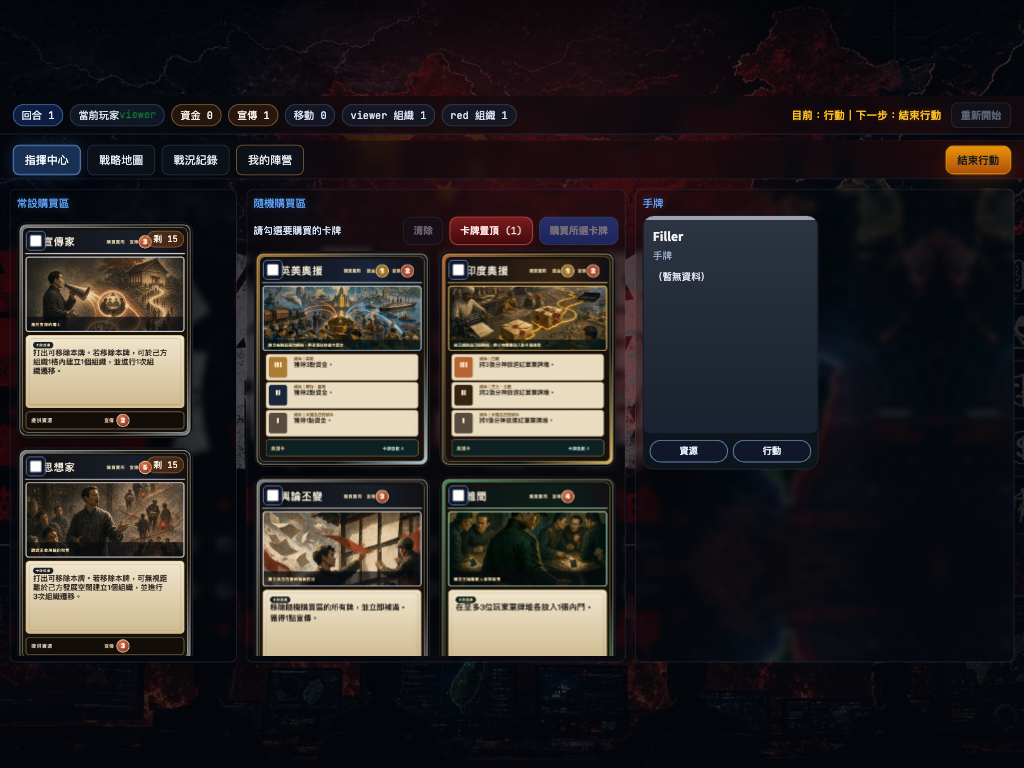
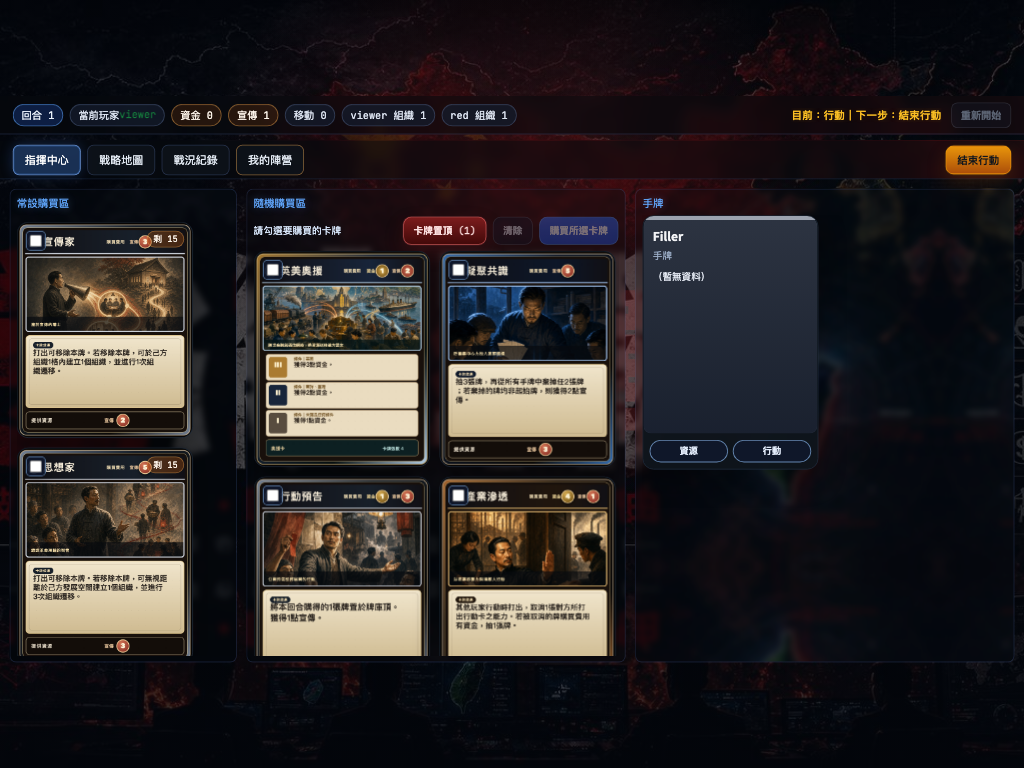
ui: 將卡牌置頂移到清除左側

Changed region(s): [[0.25, 0.2812, 0.625, 0.8438]]

diff --git a/static/index.html b/static/index.html
@@ -4,7 +4,7 @@
   <meta charset="UTF-8" />
   <title>REDLINE // STRATEGIC COMMAND</title>
   <link rel="icon" href="data:," />
-  <link rel="stylesheet" href="/static/style.css?v=topdeck-near-clear-20260823" />
+  <link rel="stylesheet" href="/static/style.css?v=topdeck-left-of-clear-20260823" />
 </head>
 <body>
 <div id="stageViewport">
@@ -292,8 +292,8 @@
         <div class="panel-title">隨機購買區</div>
         <div id="purchaseSelectionControls" style="display:none;">
           <span id="purchaseSelectionSummary">尚未選擇卡牌</span>
-          <button id="clearPurchaseSelectionBtn" class="purchase-selection-clear-btn" type="button" onclick="clearPurchaseSelection()">清除</button>
           <button id="topdeckRightBtn" class="phase-secondary-btn purchase-selection-topdeck-btn" type="button" style="display:none;" onclick="sendAction('use_topdeck_right')">卡牌置頂</button>
+          <button id="clearPurchaseSelectionBtn" class="purchase-selection-clear-btn" type="button" onclick="clearPurchaseSelection()">清除</button>
           <button id="openPurchaseConfirmBtn" class="purchase-selection-buy-btn" type="button" onclick="openPurchaseConfirmModal()" disabled>購買所選卡牌</button>
         </div>
         <div id="purchaseRandom" class="purchase-card-grid"></div>
@@ -349,6 +349,6 @@
 </div>
 <script src="https://unpkg.com/leaflet@1.9.4/dist/leaflet.js"></script>
 <script src="/static/player_messages_zh_tw.js?v=player-message-i18n-20260801"></script>
-<script src="/static/app.js?v=topdeck-near-clear-20260823"></script>
+<script src="/static/app.js?v=topdeck-left-of-clear-20260823"></script>
 </body>
 </html>

diff --git a/scripts/validate_topdeck_button_near_clear.py b/scripts/validate_topdeck_button_near_clear.py
@@ -67,8 +67,8 @@ def main() -> None:
             )
             scale = layout["hud"]["width"] / 1280
             same_row = abs(layout["clear"]["top"] - layout["topdeck"]["top"]) <= 1 and abs(layout["clear"]["height"] - layout["topdeck"]["height"]) <= 1
-            adjacent = layout["topdeck"]["left"] >= layout["clear"]["right"] and layout["topdeck"]["left"] - layout["clear"]["right"] <= 16 * scale
-            record(f"{width}x{height}_topdeck_is_renamed_and_next_to_clear", layout["text"] == "卡牌置頂 (1)" and layout["parentId"] == "purchaseSelectionControls" and layout["previousId"] == "clearPurchaseSelectionBtn" and layout["nextId"] == "openPurchaseConfirmBtn" and same_row and adjacent and layout["position"] == "static", layout)
+            adjacent = layout["clear"]["left"] >= layout["topdeck"]["right"] and layout["clear"]["left"] - layout["topdeck"]["right"] <= 16 * scale
+            record(f"{width}x{height}_topdeck_is_renamed_and_left_of_clear", layout["text"] == "卡牌置頂 (1)" and layout["parentId"] == "purchaseSelectionControls" and layout["previousId"] == "purchaseSelectionSummary" and layout["nextId"] == "clearPurchaseSelectionBtn" and same_row and adjacent and layout["position"] == "static", layout)
             record(f"{width}x{height}_topdeck_no_longer_creates_secondary_row", layout["secondaryDisplay"] == "none" and layout["shell"]["top"] <= layout["hud"]["bottom"] + 10 * scale, {"secondaryDisplay": layout["secondaryDisplay"], "hud": layout["hud"], "shell": layout["shell"], "scale": scale})
 
             screenshot = OUT / f"topdeck_near_clear_{width}x{height}_20260823.png"

diff --git a/TODO.md b/TODO.md
@@ -5,7 +5,7 @@
 ## 待辦
 
 ### P2：將「卡牌置頂」移到「清除」旁邊
-- [done] 將原本獨立顯示在 HUD 下方的「頂牌」按鈕移入隨機購買區控制列，放在「清除」右側與「購買所選卡牌」左側。
+- [done] 將原本獨立顯示在 HUD 下方的「頂牌」按鈕移入隨機購買區控制列，放在「清除」左側。
 - [done] 按鈕文字改為「卡牌置頂 (N)」，保留剩餘使用次數、候選牌判斷、disabled 狀態與既有選牌流程。
 - [done] 只有卡牌置頂權利時不再開啟獨立 `phaseActionBar`，因此不會壓低指揮中心內容；其他真正需要 HUD notice 的訊息仍可使用該列。
 - [done] 專用 Browser proof：1280×720、1024×768、按鈕相鄰關係、無獨立列與既有選牌流程 **6/6 passed**，console 0 errors。

diff --git a/docs/records/ui-layout/topdeck-near-clear/TOPDECK_NEAR_CLEAR_VALIDATION.md b/docs/records/ui-layout/topdeck-near-clear/TOPDECK_NEAR_CLEAR_VALIDATION.md
@@ -2,9 +2,9 @@
 
 Summary: **6/6 passed**
 
-- PASS: `1280x720_topdeck_is_renamed_and_next_to_clear`
+- PASS: `1280x720_topdeck_is_renamed_and_left_of_clear`
 - PASS: `1280x720_topdeck_no_longer_creates_secondary_row`
 - PASS: `card_topdeck_button_keeps_existing_choice_flow`
-- PASS: `1024x768_topdeck_is_renamed_and_next_to_clear`
+- PASS: `1024x768_topdeck_is_renamed_and_left_of_clear`
 - PASS: `1024x768_topdeck_no_longer_creates_secondary_row`
 - PASS: `browser_console_has_no_errors`
